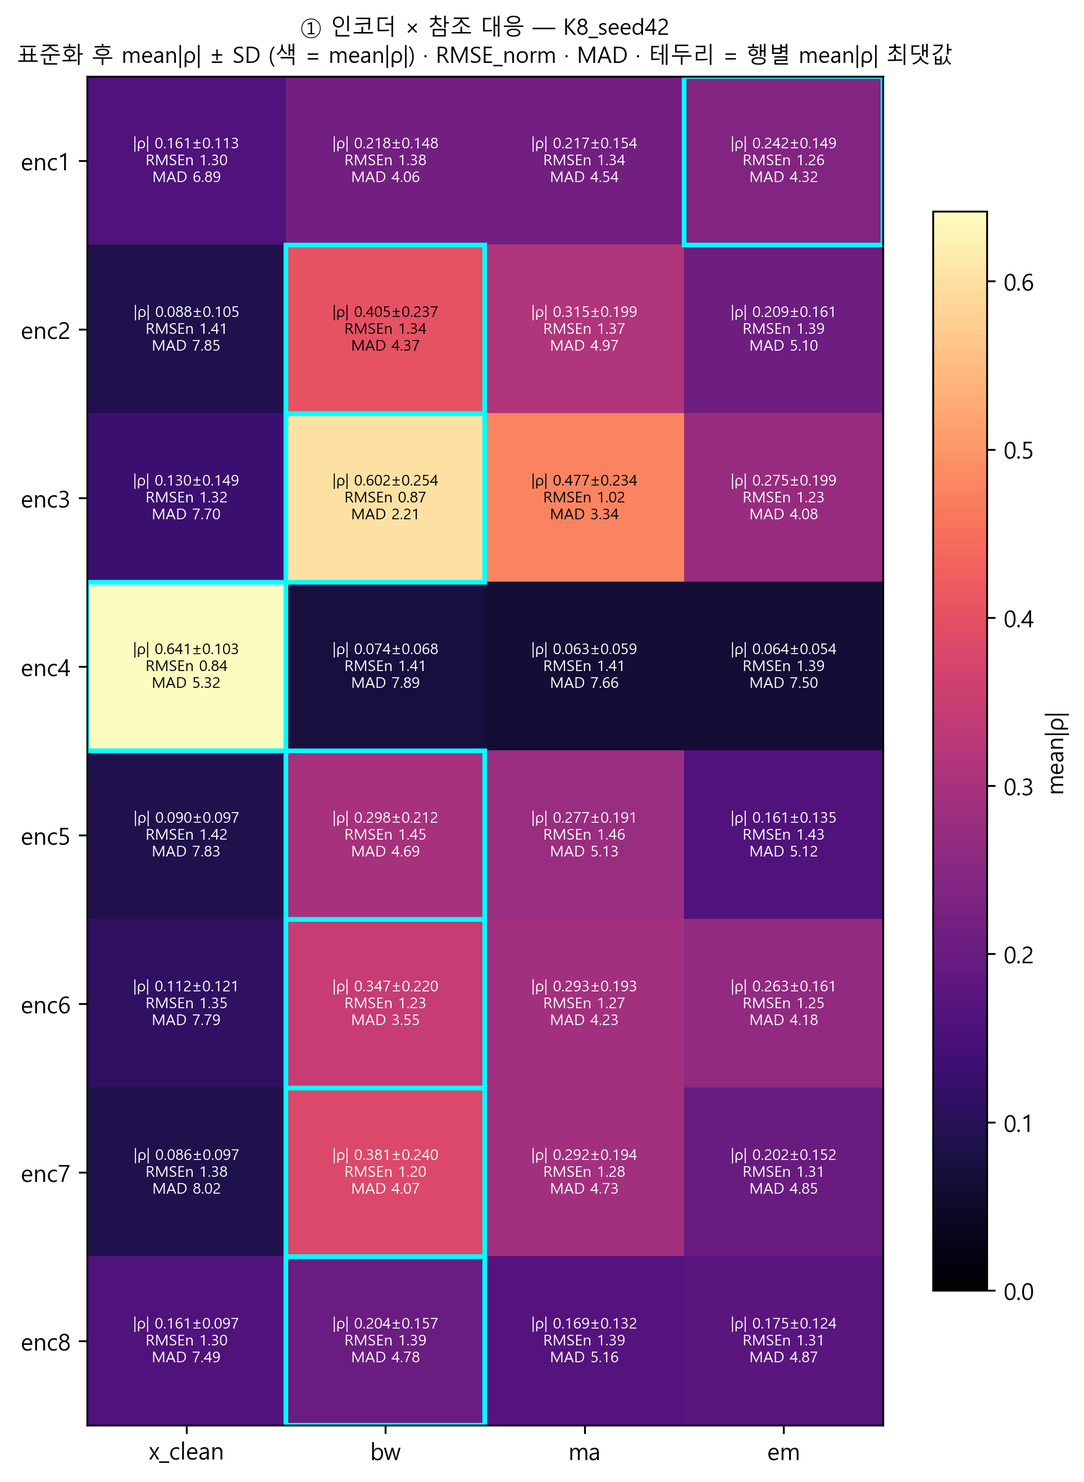
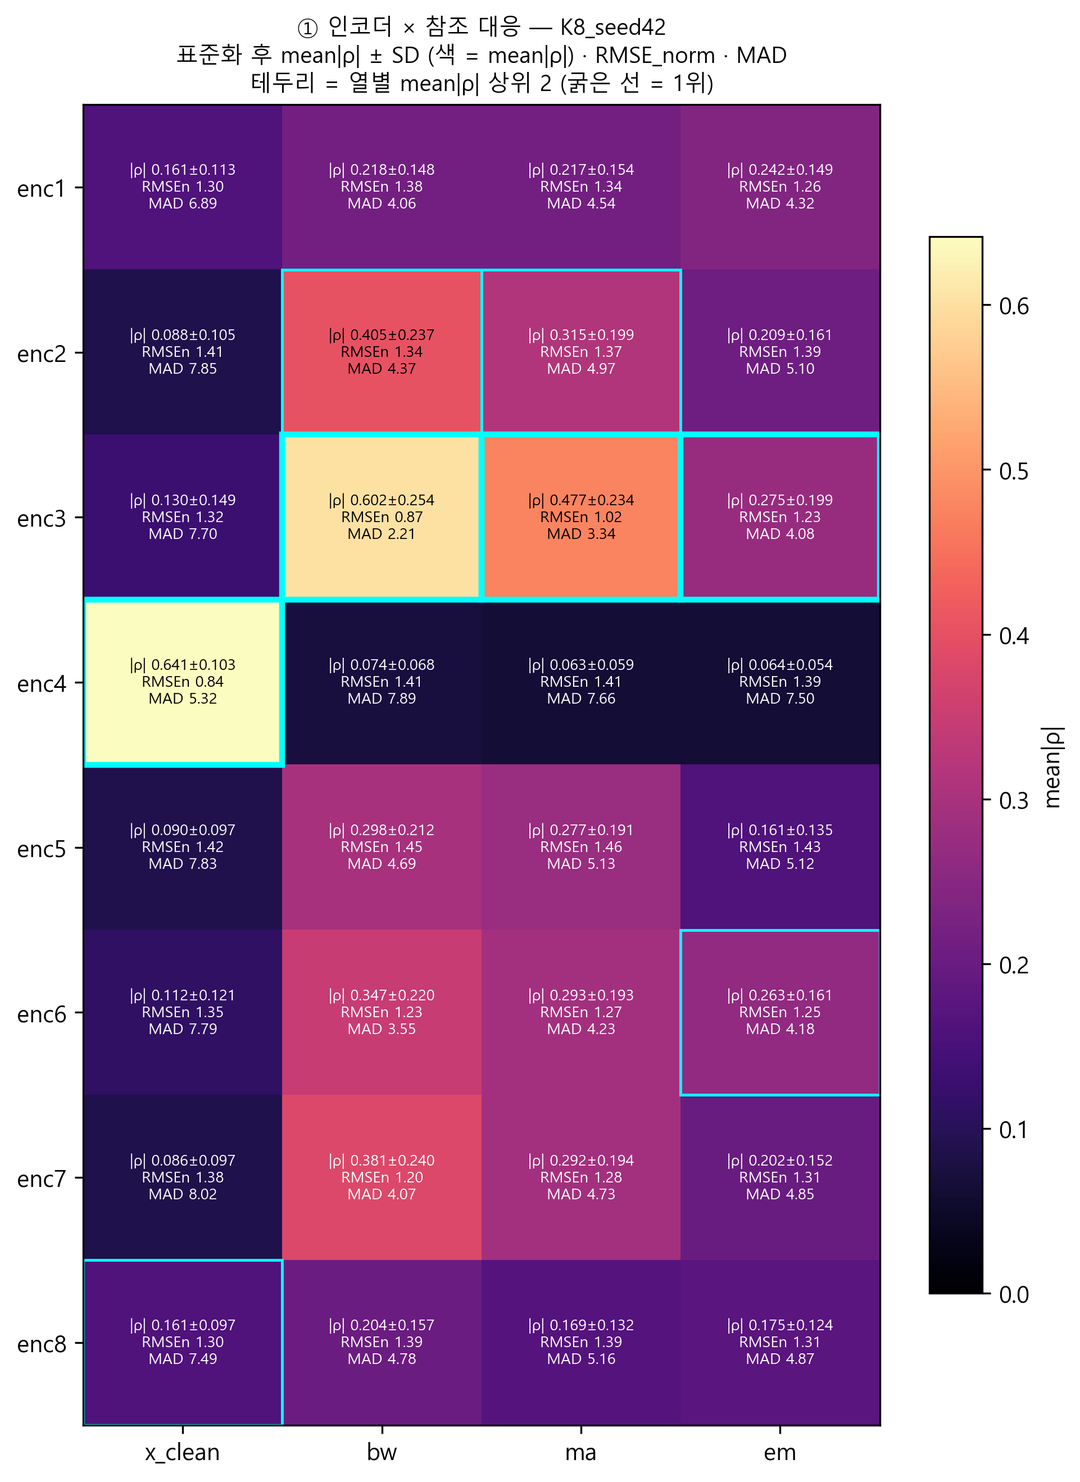
[S4] 단계 마무리 — 열별 표시로 정정, 겹침 격자 추가, 문서 재정리
정정
- 표시를 행별 -> **열별** 로 변경 (한 참조를 어느 인코더가 잡는지 열 안에서 비교)
  |r| 열 상위 2, RMSE_norm·MAD 열 하위 2. ** = 1위, * = 2위
- fig1_correspondence 테두리도 열별 상위 2 로 교체
- top_idx / mark / render 헬퍼로 표 렌더링 일원화

추가
- metric_agreement.csv — 세 지표가 행별로 같은 참조를 지목하는지 일치 여부
- figures/fig_overlay_grid.png — 성분 x 참조 8x4 겹침 격자.
  표준화한 두 파형을 한 패널에 겹쳐 그리고 패널마다 세 지표 병기, 공통 y축
- pick_segment(): 대표 분절 사전 규칙 — 주입 SNR 3종 평균이 val 중앙값에
  가장 가까운 분절 (모델 출력·지표와 무관한 데이터 속성만 사용)

문서
- RESEARCH_DESIGN §8 에 표시규칙 절과 S4 마무리 절 신설 (산출물 목록·하지 않을 것)
- README 현재 단계표: S3 완료 / S4 종료 / S5 다음

diff --git a/src/s4_identify.py b/src/s4_identify.py
@@ -256,6 +256,45 @@ def spectral_centroid(refs, fs):
     return out
 
 
+# ---------------------------------------------------------------- 표 렌더링
+def top_idx(m, n=2, largest=True):
+    """(K, R) 에서 **열별** 상·하위 n개 인코더 인덱스. 반환 (n, R), 1위가 첫 행.
+
+    표시는 열 기준이다 — 한 참조를 어느 인코더가 가장 잘 잡는지를 열 안에서 비교한다.
+    """
+    order = np.argsort(-m if largest else m, axis=0)
+    return order[:n]
+
+
+def mark(m, n=2, largest=True):
+    """(K, R) 값 → 열별 상·하위 n개에 볼드 표시할 (K, R) 순위 배열. 0=미표시, 1=1위, 2=2위."""
+    out = np.zeros(m.shape, dtype=int)
+    for rank, ks in enumerate(top_idx(m, n, largest)):
+        out[ks, np.arange(m.shape[1])] = rank + 1
+    return out
+
+
+def render(m, sd, flag, fmt="{:.3f}"):
+    """볼드 대신 콘솔·CSV에서 쓸 표식을 붙인다. ** = 열 1위, * = 열 2위."""
+    tag = {0: "", 1: "**", 2: "*"}
+    return [[f"{fmt.format(m[k, r])}±{fmt.format(sd[k, r])}{tag[flag[k, r]]}"
+             for r in range(m.shape[1])] for k in range(m.shape[0])]
+
+
+def agreement(rbar, rn_bar, md_bar):
+    """세 지표가 **행별로** 같은 참조를 지목하는지. (지목 참조 3종, 일치 여부) 표."""
+    names = list(REF_KEYS)
+    rows = []
+    for k in range(rbar.shape[0]):
+        picks = (names[int(rbar[k].argmax())],
+                 names[int(rn_bar[k].argmin())],
+                 names[int(md_bar[k].argmin())])
+        rows.append({"|r|_지목": picks[0], "RMSE_지목": picks[1], "MAD_지목": picks[2],
+                     "일치": "일치" if len(set(picks)) == 1 else "불일치"})
+    return pd.DataFrame(rows, index=pd.Index(
+        [enc_label(k) for k in range(rbar.shape[0])], name="인코더"))
+
+
 # ---------------------------------------------------------------- 그림
 def fig_correspondence(cm, out, run, rn=None, mad=None):
     """색은 ρ̄ = mean_s|ρ|, 칸 안에 RMSE_norm·MAD를 병기한다.
@@ -281,11 +320,13 @@ def fig_correspondence(cm, out, run, rn=None, mad=None):
                 lab += f"\nMAD {mm[k, r]:.2f}"
             ax.text(r, k, lab, ha="center", va="center",
                     fontsize=6.5, color="white" if m[k, r] < m.max() * .6 else "black")
-    for k in range(K):                       # 행별 최댓값
-        ax.add_patch(plt.Rectangle((m[k].argmax() - .5, k - .5), 1, 1,
-                                   fill=False, ec="cyan", lw=2))
+    for r, ks in enumerate(top_idx(m, 2, largest=True).T):   # 열별 상위 2
+        for rank, k in enumerate(ks):
+            ax.add_patch(plt.Rectangle((r - .5, k - .5), 1, 1, fill=False,
+                                       ec="cyan", lw=2.5 if rank == 0 else 1.2))
     ax.set_title(f"① 인코더 × 참조 대응 — {run}\n"
-                 "표준화 후 mean|ρ| ± SD (색 = mean|ρ|) · RMSE_norm · MAD · 테두리 = 행별 mean|ρ| 최댓값",
+                 "표준화 후 mean|ρ| ± SD (색 = mean|ρ|) · RMSE_norm · MAD\n"
+                 "테두리 = 열별 mean|ρ| 상위 2 (굵은 선 = 1위)",
                  fontsize=9.5)
     fig.colorbar(im, ax=ax, shrink=.8, label="mean|ρ|")
     fig.tight_layout()
@@ -320,6 +361,51 @@ def fig_components(comps, refs, x_noisy, i, out, title, fs):
     ax[-1].set_xlabel("시간 (초)")
     fig.suptitle(title + "\n성분·참조는 z-정규화 후 공통 y축 (단위 없음). 입력만 원값 mV",
                  fontsize=10)
+    fig.tight_layout()
+    fig.savefig(out, dpi=150, bbox_inches="tight")
+    plt.close(fig)
+
+
+def pick_segment(ds, idx):
+    """대표 분절 **사전 규칙** — 주입 SNR 3종의 평균이 val 중앙값에 가장 가까운 분절.
+
+    모델 출력과 무관한 데이터 속성만으로 정한다. 지표를 보고 고르지 않기 위해서다.
+    """
+    snr = np.array([np.mean([ds.meta[int(i)][f"snr_{t}"] for t in NOISE_REFS]) for i in idx])
+    return int(np.argmin(np.abs(snr - np.median(snr)))), snr
+
+
+def fig_overlay(comps, refs, i, cm, rn, mad, out, fs, title):
+    """S4 마무리 그림 — 성분 × 참조 8×4 격자. 한 패널에 표준화한 두 파형을 겹쳐 그린다.
+
+    패널마다 그 분절의 세 지표를 병기하고, 전 패널이 공통 y축을 쓴다.
+    """
+    zc, zr = znorm(comps[i]), znorm(refs[i])
+    K, R = zc.shape[0], zr.shape[0]
+    lim = max(np.abs(zc).max(), np.abs(zr).max()) * 1.05
+    t = np.arange(zc.shape[-1]) / fs
+    fig, ax = plt.subplots(K, R, figsize=(4.0 * R, 1.65 * K), sharex=True, sharey=True)
+    ax = np.atleast_2d(ax)
+    for k in range(K):
+        for r in range(R):
+            a = ax[k, r]
+            a.plot(t, zr[r], lw=.7, color="#d62728", alpha=.85, label="참조")
+            a.plot(t, zc[k], lw=.7, color="#1f77b4", alpha=.85, label="성분")
+            a.set_ylim(-lim, lim)
+            a.grid(alpha=.2, lw=.3)
+            a.tick_params(labelsize=6)
+            a.set_title(f"|r| {cm[i, k, r]:.3f}  RMSE {rn[i, k, r]:.3f}  "
+                        f"MAD {mad[i, k, r]:.2f}", fontsize=7, loc="left")
+            if k == 0:
+                a.text(.5, 1.35, list(REF_KEYS)[r], transform=a.transAxes,
+                       ha="center", fontsize=11)
+            if r == 0:
+                a.set_ylabel(f"{enc_label(k)}\n(z)", fontsize=8)
+    for a in ax[-1]:
+        a.set_xlabel("시간 (초)")
+    ax[0, 0].legend(fontsize=6, loc="lower left")
+    fig.suptitle(title + "\n성분(파랑)·참조(빨강) 모두 분절 내 표준화 후 공통 y축 (단위 없음)",
+                 fontsize=12, y=1.005)
     fig.tight_layout()
     fig.savefig(out, dpi=150, bbox_inches="tight")
     plt.close(fig)
@@ -387,9 +473,15 @@ def main(config="configs/default.yaml", run="K8_seed42", split="val",
     rbar, rsd, pos = aggregate(rho)
     ix = [enc_label(k) for k in range(K)]
 
+    rn_bar, rn_sd = rn.mean(0), rn.std(0, ddof=1)
+    md_bar, md_sd = mad.mean(0), mad.std(0, ddof=1)
+    # 표식은 **열별**이다. |r| 은 열 상위 2, RMSE·MAD 는 열 하위 2 (** = 1위, * = 2위)
+    f_r = mark(rbar, 2, largest=True)
+    f_n = mark(rn_bar, 2, largest=False)
+    f_m = mark(md_bar, 2, largest=False)
+
     # corr_matrix.csv — K x 4, 각 칸 rho_bar +- sigma
-    pd.DataFrame([[f"{rbar[k, r]:.4f} ± {rsd[k, r]:.4f}" for r in range(len(REF_KEYS))]
-                  for k in range(K)], columns=list(REF_KEYS),
+    pd.DataFrame(render(rbar, rsd, f_r, "{:.4f}"), columns=list(REF_KEYS),
                  index=pd.Index(ix, name="인코더")).to_csv(
         f"{outdir}/corr_matrix.csv", encoding="utf-8-sig")
 
@@ -402,19 +494,15 @@ def main(config="configs/default.yaml", run="K8_seed42", split="val",
                  index=pd.Index(ix, name="인코더")).to_csv(
         f"{outdir}/corr_sign.csv", encoding="utf-8-sig")
 
-    # ---- S4-02 정규화 RMSE. 낮을수록 유사하므로 행별 **최솟값**을 표시한다
-    rn_bar, rn_sd = rn.mean(0), rn.std(0, ddof=1)
-    pd.DataFrame([[f"{rn_bar[k, r]:.4f} ± {rn_sd[k, r]:.4f}" for r in range(len(REF_KEYS))]
-                  for k in range(K)], columns=list(REF_KEYS),
+    # ---- S4-02 정규화 RMSE. 낮을수록 유사하므로 **열별 하위 2**를 표시한다
+    pd.DataFrame(render(rn_bar, rn_sd, f_n, "{:.4f}"), columns=list(REF_KEYS),
                  index=pd.Index(ix, name="인코더")).to_csv(
         f"{outdir}/rmse_norm_matrix.csv", encoding="utf-8-sig")
     persegment(rn, "rmse_norm", idx, ix, ds).to_csv(
         f"{outdir}/rmse_norm_persegment.csv", index=False, encoding="utf-8-sig")
 
-    # ---- S4-03 MAD. 단위는 표준편차. 역시 행별 **최솟값**을 표시한다
-    md_bar, md_sd = mad.mean(0), mad.std(0, ddof=1)
-    pd.DataFrame([[f"{md_bar[k, r]:.4f} ± {md_sd[k, r]:.4f}" for r in range(len(REF_KEYS))]
-                  for k in range(K)], columns=list(REF_KEYS),
+    # ---- S4-03 MAD. 단위는 표준편차. 역시 **열별 하위 2**를 표시한다
+    pd.DataFrame(render(md_bar, md_sd, f_m, "{:.4f}"), columns=list(REF_KEYS),
                  index=pd.Index(ix, name="인코더")).to_csv(
         f"{outdir}/mad_matrix.csv", encoding="utf-8-sig")
     md_per = persegment(mad, "mad", idx, ix, ds)
@@ -422,6 +510,10 @@ def main(config="configs/default.yaml", run="K8_seed42", split="val",
     md_per["argmax_초"] = (mad_arg.reshape(-1) / fs).round(4)
     md_per.to_csv(f"{outdir}/mad_persegment.csv", index=False, encoding="utf-8-sig")
     fig_mad_argmax(mad_arg, f"{figdir}/mad_argmax_hist.png", fs, comps.shape[-1])
+
+    # ---- 세 지표의 행별 지목 일치 여부
+    agree = agreement(rbar, rn_bar, md_bar)
+    agree.to_csv(f"{outdir}/metric_agreement.csv", encoding="utf-8-sig")
 
     mat = pd.DataFrame(rbar, columns=list(REF_KEYS), index=ix)
     sd = pd.DataFrame(rsd, columns=[f"{c}_sd" for c in REF_KEYS], index=ix)
@@ -472,6 +564,14 @@ def main(config="configs/default.yaml", run="K8_seed42", split="val",
             "잡음 3종을 '잡음 최대'로 요약하지 않고 4열을 그대로 싣는다.\n")
     fig_correspondence(cm, f"{figdir}/fig1_correspondence.png", run, rn, mad)
 
+    # ---- S4 마무리 그림 — 성분 x 참조 8x4 겹침 격자 (대표 분절, 사전 규칙)
+    seg, snr = pick_segment(ds, idx)
+    m = ds.meta[int(idx[seg])]
+    fig_overlay(comps, refs, seg, cm, rn, mad, f"{figdir}/fig_overlay_grid.png", fs,
+                f"{run} · 분절 {m['record_id']}_{m['seg_idx']:04d} "
+                f"(주입 SNR bw {m['snr_bw']:.1f} / ma {m['snr_ma']:.1f} / em {m['snr_em']:.1f} dB, "
+                f"평균 {snr[seg]:.2f} dB · val 중앙값 {np.median(snr):.2f} dB)")
+
     # ② 참조 간 상관 + 스펙트럼
     rc = reference_correlation(refs)
     sc = spectral_centroid(refs, fs)
@@ -507,33 +607,34 @@ def main(config="configs/default.yaml", run="K8_seed42", split="val",
     # ---- 콘솔 보고
     print(f"=== {run} · {split} {len(ds)}분절 · best epoch {ck['epoch']} ===\n")
     print("[S4-01] 분절 내 Pearson → 분절 간 mean|ρ| ± std|ρ|(ddof=1). * = 행별 최댓값\n")
+    print("표식은 열별. ** = 열 1위, * = 열 2위 (|r|은 상위 2, RMSE·MAD는 하위 2)\n")
     print("① 인코더 × 참조 ρ̄ ± σ  [r² 병기]")
-    print(pd.DataFrame({c: [f"{rbar[k, j]:.3f}±{rsd[k, j]:.3f}"
-                            f"{'*' if j == rbar[k].argmax() else ' '}"
-                            f" (r² {r2c.loc[ix[k], c+'_r2']:.3f})" for k in range(K)]
-                        for j, c in enumerate(REF_KEYS)}, index=ix).to_string(), "\n")
+    print(pd.DataFrame([[f"{c}  (r² {r2c.loc[ix[k], list(REF_KEYS)[j]+'_r2']:.3f})"
+                         for j, c in enumerate(row)]
+                        for k, row in enumerate(render(rbar, rsd, f_r))],
+                       columns=list(REF_KEYS), index=ix).to_string(), "\n")
     print("①-보조 원 부호 양수 비율 (부호 반전 여부 기록용. |ρ| 산출과 무관)")
     print(pd.DataFrame(pos.round(3), columns=list(REF_KEYS), index=ix).to_string(), "\n")
-    print("[S4-02] 분절 내 표준화 → 분절 내 RMSE → 분절 간 평균±SD(ddof=1). "
-          "* = 행별 최솟값 (낮을수록 유사)\n")
+    print("[S4-02] 분절 내 표준화 → 분절 내 RMSE → 분절 간 평균±SD(ddof=1). 낮을수록 유사\n")
     print("② 인코더 × 참조 RMSE_norm 평균 (±SD)")
-    print(pd.DataFrame({c: [f"{rn_bar[k, j]:.3f}±{rn_sd[k, j]:.3f}"
-                            f"{'*' if j == rn_bar[k].argmin() else ' '}" for k in range(K)]
-                        for j, c in enumerate(REF_KEYS)}, index=ix).to_string(), "\n")
+    print(pd.DataFrame(render(rn_bar, rn_sd, f_n), columns=list(REF_KEYS),
+                       index=ix).to_string(), "\n")
     print("[S4-03] 분절 내 표준화 → 분절 내 max|차이| → 분절 간 평균±SD(ddof=1). "
           "단위는 표준편차\n")
-    print("③ 인코더 × 참조 MAD 평균 (±SD)   * = 행별 최솟값")
-    print(pd.DataFrame({c: [f"{md_bar[k, j]:.3f}±{md_sd[k, j]:.3f}"
-                            f"{'*' if j == md_bar[k].argmin() else ' '}" for k in range(K)]
-                        for j, c in enumerate(REF_KEYS)}, index=ix).to_string())
+    print("③ 인코더 × 참조 MAD 평균 (±SD)")
+    print(pd.DataFrame(render(md_bar, md_sd, f_m), columns=list(REF_KEYS),
+                       index=ix).to_string())
     print("   각주: 값이 낮을수록 유사하며, 참조 파형의 첨도에 영향받으므로 열 내 비교에 적합.")
     print("   최대 편차 발생 시점 분포 → figures/mad_argmax_hist.png\n")
+    print("③-보조 세 지표의 행별 지목 일치 여부")
+    print(agree.to_string(), "\n")
     print("④ 참조 간 |r| — 분리 한계의 독립 근거")
     print(ref_df.to_string(index=False))
     print(spec_df.to_string(index=False), "\n")
     print("⑤ 기여 분해 — 참조 에너지 중 각 성분이 설명하는 몫 (%)")
     print(out[list(REF_KEYS)].to_string(), "\n")
-    print(f"⑥ 기준 인코더 = {enc_label(k_bw)} (bw 최대 상관). 시각 4종 → {figdir}/")
+    print(f"⑥ 시각 → {figdir}/  (fig1_correspondence · fig_overlay_grid · "
+          f"components_bw_* · hist · mad_argmax_hist)")
     return mat_out, ref_df, out
 
 

diff --git a/RESEARCH_DESIGN.md b/RESEARCH_DESIGN.md
@@ -310,7 +310,7 @@ SSD·PRD도 ②와 마찬가지로 ρ의 함수이므로 싣지 않는다.
 성분이 참조와 반대 위상으로 수렴할 수 있다. **부호 반전은 무관이 아니라 반대 위상의 일치다.**
 원 부호 `sign(ρ_kr^(s))`의 분절별 분포(양수 비율)는 별도 CSV에 기록한다.
 
-**표 렌더링** — 행별 최댓값을 표시한다. 잡음 3종을 "잡음 최대"로 요약하지 말고 **4열 그대로** 싣는다.
+**표 렌더링** — 아래 §8-표시규칙을 따른다. 잡음 3종을 "잡음 최대"로 요약하지 말고 **4열 그대로** 싣는다.
 
 **하지 않을 것**
 - 표본 수(N=3600) 기반 **p값 산출 금지** — 시간적 자기상관으로 독립 관측 가정이 성립하지 않는다.
@@ -349,7 +349,7 @@ RMSE̅_kr = mean_s RMSE_kr^(s)
 
 구간은 패딩 제외 중앙 N=3600, 분절은 val 900.
 산출물 `rmse_norm_matrix.csv` (K×4, `RMSE̅ ± σ`) · `rmse_norm_persegment.csv`.
-**표 렌더링 시 행별 최솟값을 표시한다**(낮을수록 유사). 값에 대한 해석·명명은 붙이지 않는다.
+표시는 §8-표시규칙을 따른다(낮을수록 유사). 값에 대한 해석·명명은 붙이지 않는다.
 
 #### [S4-03] MAD 산출 명세 (확정)
 
@@ -375,11 +375,54 @@ MAD̅_kr = mean_s MAD_kr^(s)
 `figures/mad_argmax_hist.png` — **최대 편차 발생 시점의 분포**(분절별 argmax 위치 히스토그램).
 MAD가 어느 구간에서 발생하는지 확인하기 위한 것이다.
 
-**표 렌더링 시 행별 최솟값을 표시한다**(낮을수록 유사).
+표시는 §8-표시규칙을 따른다.
 **각주**: 값이 낮을수록 유사하며, 참조 파형의 첨도에 영향받으므로 **열 내 비교에 적합**하다.
 값에 대한 해석·명명은 붙이지 않는다.
 
 S4-02·S4-03 모두 부호 정렬을 하지 않으므로 반대 위상은 값이 커진다.
+
+#### §8-표시규칙 — 표에서 무엇을 굵게 하는가
+
+**표시는 열별이다.** 한 참조를 어느 인코더가 가장 잘 잡는지를 **열 안에서** 비교한다.
+행별 표시는 쓰지 않는다.
+
+| 지표 | 굵게 표시할 칸 |
+|---|---|
+| \|r\| | **열별 상위 2개** (높을수록 유사) |
+| RMSE_norm | **열별 하위 2개** (낮을수록 유사) |
+| MAD | **열별 하위 2개** (낮을수록 유사) |
+
+CSV·콘솔에서는 굵은 글씨를 쓸 수 없으므로 `**` = 열 1위, `*` = 열 2위로 표기한다.
+
+**세 지표의 행별 지목 일치 여부**를 따로 표기한다 — 한 인코더에 대해 \|r\| 최대 참조,
+RMSE_norm 최소 참조, MAD 최소 참조가 같은지. 산출물 `metric_agreement.csv`.
+
+#### §8-마무리 — S4 종료 산출물
+
+모델은 **K=8 · seed 42**, 체크포인트 규칙(`val_recon ≤ 1.5 × 최소` 관문 안에서 clean 최대 상관
+에폭 = 에폭 48)으로 확정된 것을 쓴다. **추가 학습·탐색 없음.**
+
+| 구분 | 산출물 |
+|---|---|
+| 표 (8행×4열, 각 칸 세 지표) | `corr_matrix.csv` · `rmse_norm_matrix.csv` · `mad_matrix.csv` · `stage1_matrix.csv`(통합) |
+| 지표 일치 여부 | `metric_agreement.csv` |
+| 대응 히트맵 | `figures/fig1_correspondence.png` |
+| **겹침 격자 8×4** | `figures/fig_overlay_grid.png` |
+| 기초 성분 파형 (적층) | `figures/components_bw_{high,mid,low}.png` |
+| 분절별 원값 CSV (부호 포함) | `corr_persegment.csv` · `rmse_norm_persegment.csv` · `mad_persegment.csv` |
+| MAD 최대 편차 발생 시점 분포 | `figures/mad_argmax_hist.png` |
+| 참조 간 상관·스펙트럼 · 기여 분해 | `reference_correlation.csv` · `reference_spectrum.csv` · `stage1_contribution.csv` |
+
+**겹침 격자 그림**: 기초 성분 파형(적층)을 먼저 도출한 뒤, 성분과 참조를 표준화해 **같은 패널에
+겹쳐 그린** 8×4 격자를 싣는다. 패널마다 그 분절의 세 지표를 병기하고 전 패널이 공통 y축을 쓴다.
+
+**대표 분절 선정 — 사전 규칙**: 주입 SNR 3종의 평균이 val 중앙값에 가장 가까운 분절.
+모델 출력·지표와 무관한 데이터 속성만으로 정해, 결과를 보고 고르는 일을 막는다.
+
+**하지 않을 것**: 인코더 명명 · 값 해석 · 순열 검정 · 코히런스 · 대역 분해 ·
+SSD·PRD(RMSE_norm과 순위 동일) · N 기반 p값.
+
+**이것으로 S4를 종료한다.** 마스킹·디노이징(S5)과 외부 적용(S6)은 별도 단계로 이후 착수한다.
 
 **그림 규칙**: 성분 파형 그림은 전 성분을 **공통 y축**으로 그린다(성분마다 축을 따로 잡으면
 크기가 작은 성분이 크게 보여 비교가 안 된다). y축 단위를 명기한다 — 성분·참조는 z-정규화
@@ -393,6 +436,8 @@ S4-02·S4-03 모두 부호 정렬을 하지 않으므로 반대 위상은 값이
 | ①-보조 분절별 원값 (부호 포함) · 부호 양수 비율 | `corr_persegment.csv`, `corr_sign.csv` |
 | ② 정규화 RMSE 대응표 (RMSE̅ ± σ) | `rmse_norm_matrix.csv`, `rmse_norm_persegment.csv` |
 | ③ MAD 대응표 (MAD̅ ± σ) · 최대 편차 시점 분포 | `mad_matrix.csv`, `mad_persegment.csv`, `fig mad_argmax_hist.png` |
+| 세 지표 지목 일치 여부 | `metric_agreement.csv` |
+| 성분 × 참조 겹침 격자 8×4 (대표 분절) | `figures/fig_overlay_grid.png` |
 | ①②-보조 통합표 (ρ̄·σ·r²·RMSE_norm·MAD·energy_ratio) | `stage1_matrix.csv` + `stage1_matrix_note.txt` |
 | ② 참조 간 상관·스펙트럼 | `reference_correlation.csv`, `reference_spectrum.csv` |
 | ③ 기여 분해 (다중 회귀, 서술용) | `stage1_contribution.csv` |
@@ -542,12 +587,11 @@ MIT-BIH MLII와 도메인이 가깝다. CC-BY 4.0. 단위가 mV인지 raw인지 
 ```
 S1  데이터 구축                                  ✅ 완료·동결
 S2  모델 이식                                    ✅ 완료·동결
-S3  학습 (K=8, seed 42) → 비용 함수 ②로 체크포인트 선택
-    → ★선택 에폭·S·후보 집합 크기 보고
+S3  학습 (K=8, seed 42)                          ✅ 완료 — 에폭 48 확정
+S4  인코더–참조 대응 분석                        ✅ 종료 — 명세 S4-01·02·03, val 산출 완료
 T6.9 val 전체 리허설 (test 봉인 해제 전 필수 관문) → results/00_rehearsal/
     → ★보고 후 `pre-test-freeze` 태그
 T7-0 ★사용자 승인 — test 봉인 해제. 승인 전 해제 금지
-S4  인코더–참조 대응 분석 → ★보고
 S5  마스킹 전후 평가 + 아블레이션
 S6  외부 적용 시연
 S7  통계 → 원고 수치 정리

diff --git a/README.md b/README.md
@@ -16,13 +16,13 @@
 |---|---|
 | S1 데이터 구축 | ✅ 완료·동결 |
 | S2 모델 이식 | ✅ 완료·동결 |
-| **S3 학습** | 🔧 **여기** — 손실·선택기준 확정, 최종 실행 |
-| S4 성분 분리 평가 | ⏸ 도구 완성, 실행 대기 |
-| S5 마스킹·아블레이션 | ⏸ 설계 확정, 미실행 |
+| S3 학습 | ✅ 완료 — K=8 seed 42, 에폭 48 확정 |
+| **S4 성분 분리 평가** | ✅ **종료** — 명세 S4-01·02·03 확정, val 산출 완료 |
+| **S5 마스킹·아블레이션** | 🔧 **다음** — 설계 확정, 미실행 |
 | S6 외부 적용 | ⏸ 설계 확정, 미실행 |
 
-**다음**: S3 실행 완료 → 산출물 확인 → T6.9 리허설 → `pre-test-freeze` → **승인 후** S4(test 봉인 해제)
-→ S5 → S6 → 통계·원고. **추가 구조·손실·K·시드 탐색 없음.**
+**다음**: T6.9 리허설 → `pre-test-freeze` → **승인 후** test 봉인 해제 → S5 → S6 → 통계·원고.
+**추가 구조·손실·K·시드 탐색 없음.**
 
 ---
 
@@ -84,7 +84,7 @@ S(t)   = max_k ρ_k(t)
 
 | 단계 | 지표 |
 |---|---|
-| **S4 성분 분리** | [S4-01] 상관 — 분절 내 Pearson → 분절 간 `ρ̄ = mean_s\|ρ\|`, `σ = std_s\|ρ\|`(ddof=1), 행별 최댓값 표시<br>[S4-02] 정규화 RMSE — 분절 내 표준화 → 분절 내 RMSE → 분절 간 평균±SD(ddof=1), 행별 최솟값 표시<br>[S4-03] MAD — 같은 표준화 → 분절 내 `max_i\|ã−r̃\|` → 분절 간 평균±SD(ddof=1), 단위 표준편차, 행별 최솟값 표시<br>r² 병기, 부호 분포·MAD 발생 시점 분포 별도 기록. p값·명명·해석 없음 |
+| **S4 성분 분리** | 성분·참조를 **분절 내 표준화**(평균 0, SD 1)한 뒤 세 지표. 모두 분절 내 산출 → 900분절 평균±SD(ddof=1)<br>**\|r\|** 분절 내 Pearson 절댓값 · **RMSE** 표준화 신호 차이의 RMS · **MAD** 그 차이의 최댓값<br>표시는 **열별** — \|r\|은 상위 2, RMSE·MAD는 하위 2. 세 지표의 행별 지목 일치 여부 병기<br>p값·인코더 명명·해석 없음 |
 | **S5 디노이징** | 마스킹 전후 SNR·RMSE·R-피크 F1·SDNN (clean 참조 기준) + 아블레이션 + 전수 2^K 지도 |
 | **S6 외부** | 정량 성능 주장 없음. 적용 가능성 시연 |
 
